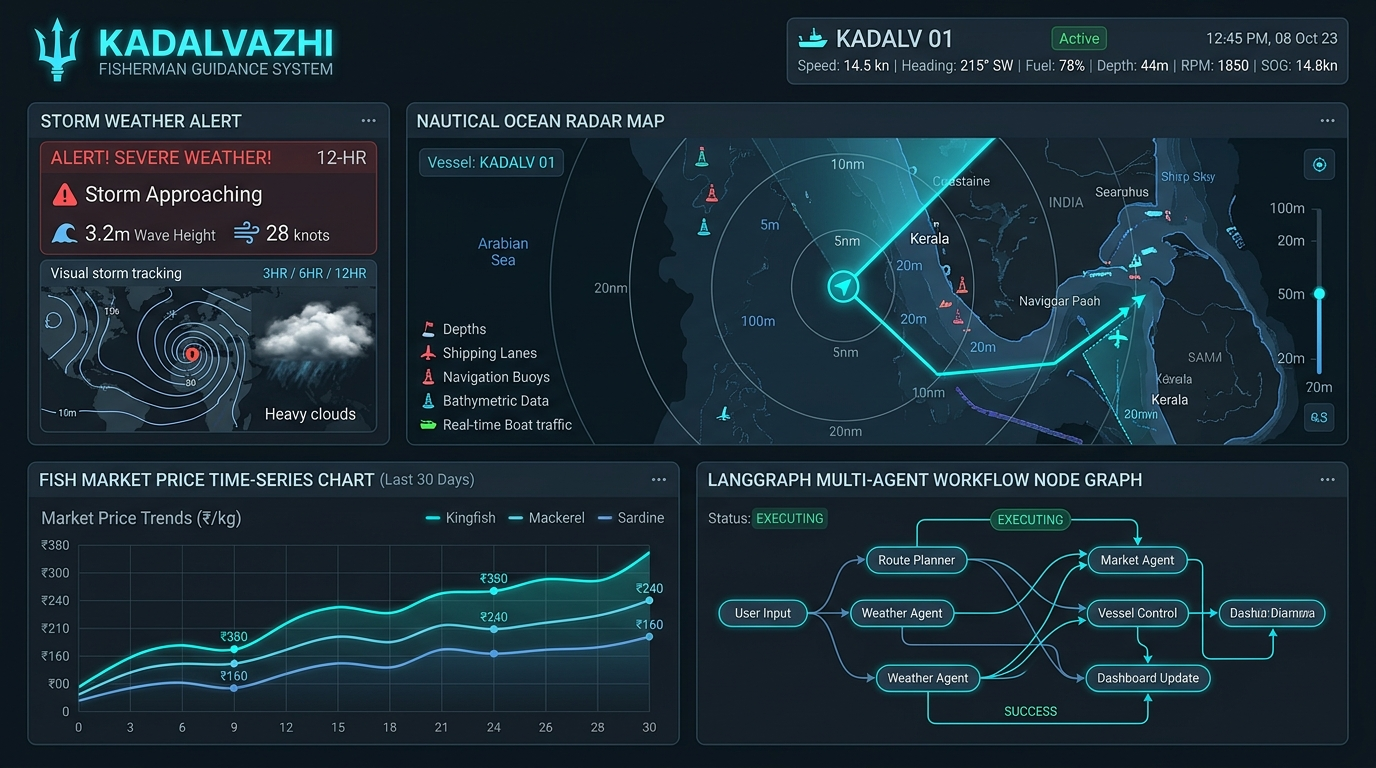
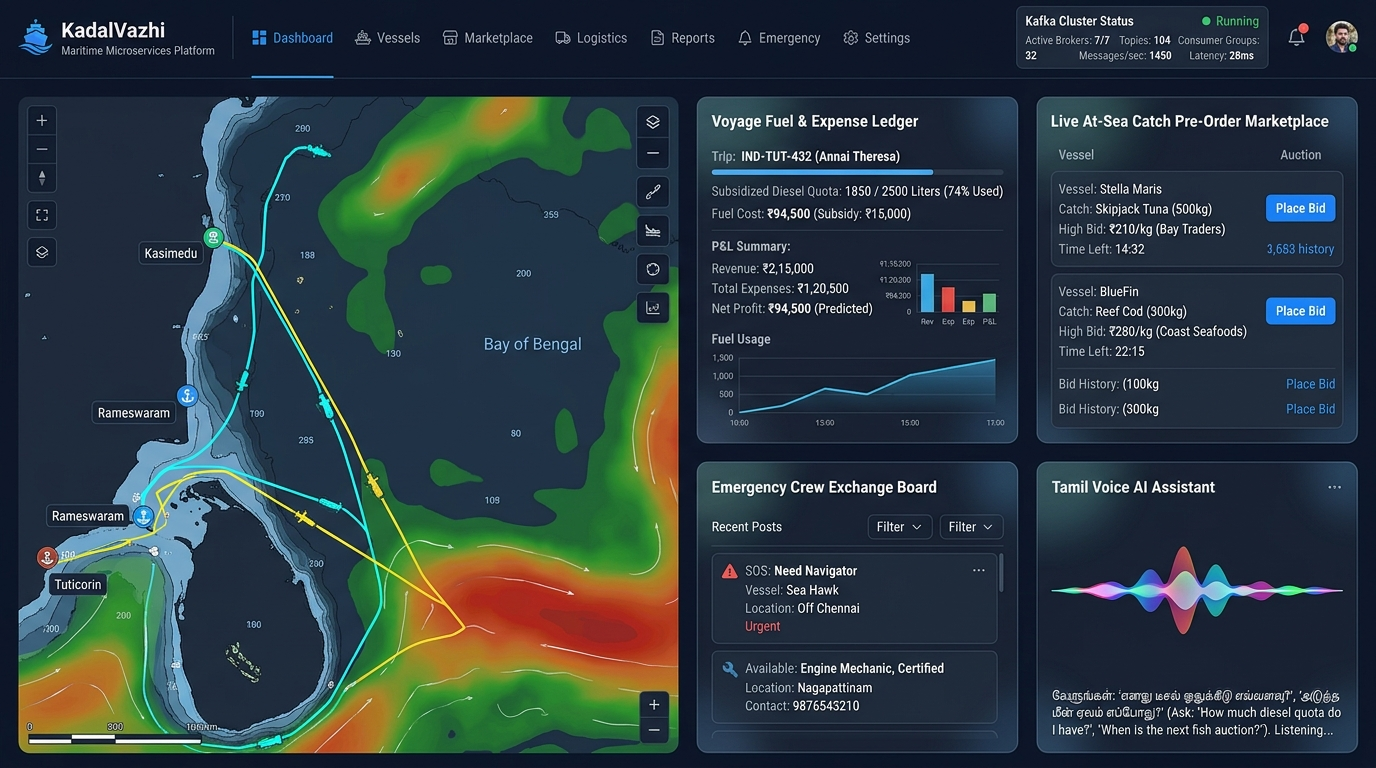
Update portfolio: natural bio separation, email click-to-copy privacy, KadalVazhi microservices architecture and thumbnail

diff --git a/index.html b/index.html
@@ -2541,10 +2541,8 @@
             </div>
 
             <p class="hero-bio">
-              Software Developer at <strong>Vaken Technology</strong>, working on the <strong>Sovablu</strong> platform.
-              Focused on production <strong>Java and Spring Boot APIs</strong>,
-              database caching with <strong>Redis and PostgreSQL</strong>, <strong>Agentic AI</strong> with AWS Bedrock,
-              and multi-agent architectures using <strong>Python and LangGraph</strong>.
+              Software Developer at <strong>Vaken Technology</strong>, engineering enterprise backend services and REST APIs for the <strong>Sovablu low-code platform</strong> using <strong>Java 21, Spring Boot, Redis, PostgreSQL</strong>, and <strong>AWS Bedrock</strong>.
+              Concurrently architecting <strong>KadalVazhi</strong> as an independent engineering initiative, an enterprise-grade real-time maritime microservices and AI guidance platform built with <strong>Java 25, Python, LangGraph</strong>, and <strong>Apache Kafka</strong>.
             </p>
 
             <div class="hero-actions">
@@ -2571,9 +2569,9 @@
               <div class="stat-sub">Java 21, Spring Boot, Redis, AWS Bedrock</div>
             </div>
             <div class="stat-card stat-purple">
-              <div class="stat-value">Multi-Agent</div>
+              <div class="stat-value">Microservices</div>
               <div class="stat-label">KadalVazhi Platform</div>
-              <div class="stat-sub">LangGraph, ChromaDB RAG, LangSmith</div>
+              <div class="stat-sub">Java 25, Kafka, LangGraph, Offline Sync</div>
             </div>
             <div class="stat-card">
               <div class="stat-value">707</div>
@@ -2598,16 +2596,23 @@
 
           <!-- Quick Contact Footer Bar -->
           <div class="quick-contact-bar" style="background: var(--bg-card); border: 1px solid var(--border-subtle); border-radius: var(--radius-md); padding: 18px 24px; display: flex; align-items: center; justify-content: space-between; flex-wrap: wrap; gap: 14px;">
-            <div style="display: flex; align-items: center; gap: 20px; flex-wrap: wrap; font-size: 0.88rem; color: var(--text-secondary);">
-              <span style="display: flex; align-items: center; gap: 6px;">
-                <i data-lucide="mail" style="width: 15px; height: 15px; color: var(--accent-blue);"></i> jamnithil@gmail.com
-              </span>
-              <span style="display: flex; align-items: center; gap: 6px;">
-                <i data-lucide="phone" style="width: 15px; height: 15px; color: var(--accent-green);"></i> +91 8220173595
-              </span>
-              <span style="display: flex; align-items: center; gap: 6px;">
+            <div style="display: flex; align-items: center; gap: 16px; flex-wrap: wrap; font-size: 0.88rem; color: var(--text-secondary);">
+              <button class="btn-action" id="copy-email-btn" onclick="copyEmailToClipboard(this)" title="Click to copy email address" style="background: rgba(56, 189, 248, 0.08); border: 1px solid rgba(56, 189, 248, 0.25); color: var(--text-primary); padding: 7px 14px; font-size: 0.86rem; border-radius: var(--radius-sm); display: inline-flex; align-items: center; gap: 8px; cursor: pointer; transition: all 0.2s ease;">
+                <i data-lucide="mail" style="width: 14px; height: 14px; color: var(--accent-blue);"></i>
+                <span id="copy-email-text">jamnithil@gmail.com</span>
+                <i data-lucide="copy" id="copy-email-icon" style="width: 13px; height: 13px; color: var(--text-muted);"></i>
+              </button>
+              <span style="display: inline-flex; align-items: center; gap: 6px; color: var(--text-secondary); font-size: 0.88rem;">
                 <i data-lucide="map-pin" style="width: 15px; height: 15px; color: var(--accent-purple);"></i> Tamil Nadu, India
               </span>
+            </div>
+            <div style="display: flex; align-items: center; gap: 10px;">
+              <a href="https://www.linkedin.com/in/jamesnithilv/" target="_blank" class="btn-action" style="padding: 7px 14px; font-size: 0.82rem;">
+                <i data-lucide="linkedin" style="width: 14px; height: 14px;"></i> LinkedIn
+              </a>
+              <a href="https://github.com/nithiljn" target="_blank" class="btn-action" style="padding: 7px 14px; font-size: 0.82rem;">
+                <i data-lucide="github" style="width: 14px; height: 14px;"></i> GitHub
+              </a>
             </div>
           </div>
 
@@ -2631,69 +2636,69 @@
           <!-- 🌟 FLAGSHIP PROJECT: KadalVazhi -->
           <div class="project-card-modern featured">
             <div class="project-thumb-wrap">
-              <img src="assets/images/project-kadalvazhi.jpg" alt="KadalVazhi AI Fisherman Guidance System Dashboard" class="project-thumb-img" loading="lazy">
+              <img src="assets/images/project-kadalvazhi.jpg" alt="KadalVazhi Maritime Microservices Platform Dashboard" class="project-thumb-img" loading="lazy">
             </div>
             <span class="featured-badge">Flagship 2026</span>
 
             <div class="project-header">
               <h2 class="project-name">
-                <span>KadalVazhi: AI Fisherman Guidance System</span>
+                <span>KadalVazhi (கடல் வழி): Maritime Microservices & AI Platform</span>
               </h2>
-              <p class="project-tagline">Real-time multi-agent guidance platform for weather, pricing, fuel, and voyage safety</p>
+              <p class="project-tagline">Enterprise polyglot microservices platform for deep-sea fleet voyages, emergency crew exchange, and direct dockside catch pre-orders</p>
             </div>
 
             <p class="project-description">
-              A real-time AI guidance system for fishermen that handles weather risk analysis,
-              fish market price forecasts, fuel cost estimates, and voyage profitability using an autonomous
-              <strong>LangGraph multi-agent architecture</strong>.
+              An enterprise-grade, polyglot microservices ecosystem tailored for deep-sea fishing communities and fleet owners.
+              Features an offline-first voyage engine, Apache Kafka event streaming, zero-middlemen dockside catch pre-booking,
+              emergency crew replacement, and a Tamil/Malayalam voice AI advisory engine.
             </p>
 
             <ul class="project-bullets">
               <li>
-                <strong>Multi-Agent Architecture:</strong> Developed specialized <em>Weather</em>, <em>Financial</em>,
-                <em>Guide</em>, and <em>LLM-as-Judge</em> agents, tracking evaluation metrics with <strong>LangSmith</strong>.
+                <strong>Polyglot Microservices & Event Streaming:</strong> Core transactional services engineered in <strong>Java 25 and Spring Boot</strong> (<code>nn-home-service</code>, <code>fleet-service</code>, <code>crew-exchange-service</code>, <code>marketplace-service</code>) routed via <strong>Spring Cloud Gateway</strong>, using <strong>Apache Kafka</strong> for asynchronous event-driven workflows (trip events, catch declarations, emergency alerts).
               </li>
               <li>
-                <strong>RAG Pipeline with ChromaDB:</strong> Built vector store retrieval using cosine similarity search on official fishery documents for context-aware responses.
+                <strong>Offline-First Zero-Connectivity Sync:</strong> Solved 5-to-10 nautical mile offshore dead zones with local SQLite storage on mobile clients, executing <strong>idempotent background synchronization</strong> to <strong>PostgreSQL</strong> once vessels regain coastal 4G connectivity.
               </li>
               <li>
-                <strong>Predictive Vision and Forecasting:</strong> Trained an <strong>LSTM time-series forecasting model</strong> and connected <strong>PaddleOCR with a Vision-Language Model (VLM)</strong> for fish image data extraction and valuation.
+                <strong>Direct-From-Sea Pre-Order Marketplace:</strong> Built a dockside catch pre-order system enabling captains to declare catches while at sea, linking vessel arrival ETAs at major fish landing centers (Kasimedu, Tuticorin, Rameswaram, Munambam) directly to buyers and eliminating exploitative middlemen.
               </li>
               <li>
-                <strong>Safe Fallback Loop:</strong> Integrated OpenWeather API with a 3-attempt fallback loop across multiple weather services. If all requests fail, the system explicitly warns fishermen instead of serving unverified data to protect lives at sea.
+                <strong>Voyage Ledger & Subsidized Fuel Quota:</strong> Engine supporting all vessel classes (from 1-day country crafts and FRP fiber boats to 15-day mechanized trawlers), tracking government diesel/kerosene quota balances, ice supplies, crew rosters, and trip P&L.
               </li>
               <li>
-                <strong>Performance and Reliability:</strong> Applied the <strong>Singleton pattern</strong> and <strong>LRU caching</strong>, logging daily fishing profit and loss into <strong>PostgreSQL</strong> for historical AI guidance models.
+                <strong>Emergency Crew Exchange & AI Voice Advisory:</strong> Real-time dispatch board for urgent port crew hiring, paired with a <strong>Python FastAPI AI Voice Engine</strong> using <strong>Whisper STT (Tamil/Malayalam)</strong> and LLM reasoning for marine safety alerts and annual fishing ban compliance.
+              </li>
+              <li>
+                <strong>AWS Cloud & Automated Jenkins CI/CD:</strong> Containerized microservices orchestrated on <strong>AWS EKS Kubernetes</strong> with Application Load Balancers, Multi-AZ RDS PostgreSQL (JSONB), and automated canary deployments via <strong>Jenkins pipelines</strong>.
               </li>
             </ul>
 
-            <!-- Python pseudo-code snippet for KadalVazhi -->
+            <!-- Java / Kafka event snippet for KadalVazhi -->
             <div class="code-preview-block">
-              <span class="syntax-com"># kadalvazhi_core.py: LangGraph multi-agent setup</span><br>
-              <span class="syntax-kw">from</span> langgraph.graph <span class="syntax-kw">import</span> StateGraph, END<br>
-              <span class="syntax-kw">from</span> chromadb <span class="syntax-kw">import</span> PersistentClient<br>
-              <br>
-              <span class="syntax-kw">class</span> <span class="syntax-cls">KadalVazhiAgentGraph</span>:<br>
-              &nbsp;&nbsp;&nbsp;&nbsp;<span class="syntax-kw">def</span> <span class="syntax-fn">__init__</span>(self, vector_store: PersistentClient):<br>
-              &nbsp;&nbsp;&nbsp;&nbsp;&nbsp;&nbsp;&nbsp;&nbsp;self.rag_engine = vector_store.get_collection(<span class="syntax-str">"fishery_docs"</span>)<br>
-              &nbsp;&nbsp;&nbsp;&nbsp;&nbsp;&nbsp;&nbsp;&nbsp;self.workflow = StateGraph(FishermanState)<br>
-              &nbsp;&nbsp;&nbsp;&nbsp;&nbsp;&nbsp;&nbsp;&nbsp;<span class="syntax-com"># Define specialized agent nodes</span><br>
-              &nbsp;&nbsp;&nbsp;&nbsp;&nbsp;&nbsp;&nbsp;&nbsp;self.workflow.add_node(<span class="syntax-str">"weather_safety_agent"</span>, self.eval_weather_risk)<br>
-              &nbsp;&nbsp;&nbsp;&nbsp;&nbsp;&nbsp;&nbsp;&nbsp;self.workflow.add_node(<span class="syntax-str">"market_pricing_agent"</span>, self.forecast_pnl_lstm)<br>
-              &nbsp;&nbsp;&nbsp;&nbsp;&nbsp;&nbsp;&nbsp;&nbsp;self.workflow.add_node(<span class="syntax-str">"llm_as_judge"</span>, self.validate_safety_verdict)<br>
-              &nbsp;&nbsp;&nbsp;&nbsp;&nbsp;&nbsp;&nbsp;&nbsp;self.workflow.add_conditional_edges(<span class="syntax-str">"weather_safety_agent"</span>, self.check_storm_threshold)<br>
+              <span class="syntax-com">// CatchEventConsumer.java: Kafka-driven Offshore Catch & Marketplace Processing</span><br>
+              <span class="syntax-kw">@Component</span><br>
+              <span class="syntax-kw">public class</span> <span class="syntax-cls">CatchEventConsumer</span> {<br>
+              &nbsp;&nbsp;&nbsp;&nbsp;<span class="syntax-kw">@KafkaListener</span>(topics = <span class="syntax-str">"catch-reported-events"</span>, groupId = <span class="syntax-str">"marketplace-v1"</span>)<br>
+              &nbsp;&nbsp;&nbsp;&nbsp;<span class="syntax-kw">public void</span> <span class="syntax-fn">processOffshoreCatch</span>(CatchDeclaredEvent event) {<br>
+              &nbsp;&nbsp;&nbsp;&nbsp;&nbsp;&nbsp;&nbsp;&nbsp;<span class="syntax-com">// Idempotent catch registration synced from offline marine client</span><br>
+              &nbsp;&nbsp;&nbsp;&nbsp;&nbsp;&nbsp;&nbsp;&nbsp;marketplaceService.registerDocksidePreOrder(event.getVesselId(), event.getSpecies(), event.getEtaHarbor());<br>
+              &nbsp;&nbsp;&nbsp;&nbsp;&nbsp;&nbsp;&nbsp;&nbsp;redisLeaderboard.updatePortVolume(event.getPortId(), event.getWeightKg());<br>
+              &nbsp;&nbsp;&nbsp;&nbsp;}<br>
+              }
             </div>
 
             <div class="tech-pill-list">
-              <span class="tech-pill highlight">LangGraph</span>
-              <span class="tech-pill highlight">ChromaDB (RAG)</span>
-              <span class="tech-pill highlight">LangSmith</span>
-              <span class="tech-pill">PaddleOCR + VLM</span>
-              <span class="tech-pill">LSTM Time-Series</span>
-              <span class="tech-pill">OpenWeather API</span>
-              <span class="tech-pill">PostgreSQL</span>
-              <span class="tech-pill">Redis LRU Cache</span>
-              <span class="tech-pill">Python 3.11</span>
+              <span class="tech-pill highlight">Java 25 & Spring Boot</span>
+              <span class="tech-pill highlight">Apache Kafka</span>
+              <span class="tech-pill highlight">Spring Cloud Gateway</span>
+              <span class="tech-pill">Offline SQLite Sync</span>
+              <span class="tech-pill">Python FastAPI</span>
+              <span class="tech-pill">Whisper Voice AI (Tamil/Malayalam)</span>
+              <span class="tech-pill">PostgreSQL (JSONB)</span>
+              <span class="tech-pill">Redis Cluster</span>
+              <span class="tech-pill">AWS EKS & Docker</span>
+              <span class="tech-pill">Jenkins CI/CD</span>
             </div>
 
             <div class="project-links">
@@ -3430,13 +3435,13 @@
           <i data-lucide="award" style="width: 12px; height: 12px; color: #f59e0b;"></i>
           <span>Knight 1,994 (Rank #197)</span>
         </div>
-        <div class="badge-detail-row">
+        <div class="badge-detail-row" style="cursor: pointer;" onclick="copyEmailToClipboard(this)" title="Click to copy email">
           <i data-lucide="mail" style="width: 12px; height: 12px; color: var(--accent-blue);"></i>
           <span>jamnithil@gmail.com</span>
         </div>
         <div class="badge-detail-row">
-          <i data-lucide="phone" style="width: 12px; height: 12px; color: var(--accent-green);"></i>
-          <span>+91 8220173595</span>
+          <i data-lucide="map-pin" style="width: 12px; height: 12px; color: var(--accent-green);"></i>
+          <span>Tamil Nadu, India</span>
         </div>
         <div class="badge-detail-row">
           <i data-lucide="code" style="width: 12px; height: 12px; color: var(--accent-purple);"></i>
@@ -3852,18 +3857,18 @@ Competitive Programmer: LeetCode Knight (Contest Rating 1,994, Rank #197 / 43,02
 $ current_focus.json
 {
   "role": "Junior Software Developer at Vaken Technology",
-  "product": "Sovablu (Production REST APIs, Redis Caching, AWS Bedrock, Jenkins)",
-  "flagship_project": "KadalVazhi: AI Fisherman Guidance System (LangGraph, ChromaDB, RAG)",
+  "product": "Sovablu Low-Code Platform (Java 21, Spring Boot REST APIs, Redis, AWS Bedrock)",
+  "personal_flagship": "KadalVazhi: Real-Time Maritime Microservices & AI (Java 25, Kafka, Whisper)",
   "competitive_ranking": "LeetCode Knight, 707 Problems Solved (446 Java, 443 Python3)",
   "education": "B.Tech in Artificial Intelligence and Data Science (KIOT, CGPA 8.1)",
-  "focus": "Building reliable distributed backends and practical AI systems."
+  "focus": "Engineering distributed backend services and real-world AI systems."
 }
 
 $ tech_highlights
 • Built and maintained production REST APIs in Java and Spring Boot with rate limiting and Singleton design pattern.
 • Integrated Redis caching to reduce database query latency across hot paths with PostgreSQL.
 • Automated CI/CD deployment pipelines using Jenkins with AWS services (EC2, S3, Lambda, CodeCommit).
-• Architected multi-agent workflows using LangGraph for maritime safety, pricing, and weather guidance.
+• Architected KadalVazhi microservices with Java 25, Kafka event streaming, and offline SQLite sync.
 
 [Open for high-impact software engineering roles and collaboration]
 `;
@@ -3976,15 +3981,17 @@ $ tech_highlights
     const cliInput = document.getElementById('cli-input-field');
 
     const kadalvazhiCliResponse = `
-KadalVazhi: AI Fisherman Guidance System (2026)
+KadalVazhi (கடல் வழி): Maritime Microservices & AI Platform (2026)
 • Status: Under Active Development
 • Organization: https://github.com/orgs/kadal-vazhi/repositories
-• Architecture: LangGraph Multi-Agent (Weather, Financial, Guide, LLM-as-Judge)
-• RAG Pipeline: ChromaDB vector store with cosine similarity on official fishery documents
-• Safety First: OpenWeather API 3-attempt fallback loop with explicit safety warnings
-• Computer Vision: PaddleOCR and Vision-Language Model (VLM) for fish image extraction
-• Time Series: LSTM forecasting model for market pricing and catch valuation
-• Systems: Singleton pattern, Redis LRU caching, and daily P&L logged in PostgreSQL
+• Architecture: Polyglot Microservices (Java 25 Spring Boot + Python FastAPI)
+• Event Backbone: Apache Kafka (Trip lifecycle, catch pre-orders, crew alerts)
+• Deep-Sea Offline Sync: SQLite local client syncs to PostgreSQL when entering 4G
+• Direct Catch Pre-Orders: Live dockside pre-booking eliminating middlemen
+• Voyage & Fuel Ledger: All-vessel tracking (Country craft to 15-day trawler) with subsidy balances
+• Emergency Crew Exchange: Real-time harbour crew shortage board
+• Voice AI: Tamil & Malayalam Whisper STT + LLM marine safety advisory
+• Cloud & DevOps: AWS EKS, RDS PostgreSQL (JSONB), Redis Cluster, Jenkins CI/CD
 `;
 
     const cliResponses = {
@@ -4056,12 +4063,11 @@ LeetCode Knight Badge:
 `,
       'contact': `
 Contact Information:
-• Email: jamnithil@gmail.com
-• Phone: +91 8220173595
+• Email: jamnithil@gmail.com (click to copy on page)
+• Location: Tamil Nadu, India
 • LinkedIn: https://www.linkedin.com/in/jamesnithilv/
 • GitHub: https://github.com/nithiljn
 • LeetCode: https://leetcode.com/u/NITHIL07/
-• Location: Trichy, Tamil Nadu, India
 `,
       'resume': `
 📄 Triggering download for 'James_Nithil_Resume.pdf'...
@@ -4121,6 +4127,49 @@ Contact Information:
     function runCliBtn(cmd) {
       cliInput.value = '';
       executeCommand(cmd);
+    }
+
+    function copyEmailToClipboard(btn) {
+      const email = 'jamnithil@gmail.com';
+      const textEl = document.getElementById('copy-email-text');
+      const onSuccess = () => {
+        if (textEl) textEl.textContent = 'Email copied!';
+        if (btn) {
+          btn.style.borderColor = 'rgba(16, 185, 129, 0.6)';
+          btn.style.background = 'rgba(16, 185, 129, 0.15)';
+        }
+        setTimeout(() => {
+          if (textEl) textEl.textContent = email;
+          if (btn) {
+            btn.style.borderColor = 'rgba(56, 189, 248, 0.25)';
+            btn.style.background = 'rgba(56, 189, 248, 0.08)';
+          }
+        }, 2200);
+      };
+
+      if (navigator.clipboard && navigator.clipboard.writeText) {
+        navigator.clipboard.writeText(email).then(onSuccess).catch(() => {
+          fallbackCopyText(email, onSuccess);
+        });
+      } else {
+        fallbackCopyText(email, onSuccess);
+      }
+    }
+
+    function fallbackCopyText(text, callback) {
+      const input = document.createElement('input');
+      input.value = text;
+      input.style.position = 'fixed';
+      input.style.opacity = '0';
+      document.body.appendChild(input);
+      input.select();
+      try {
+        document.execCommand('copy');
+        if (callback) callback();
+      } catch (err) {
+        prompt('Copy email address:', text);
+      }
+      document.body.removeChild(input);
     }
   </script>
 

diff --git a/README.md b/README.md
@@ -10,7 +10,7 @@
 
 ## 👨💻 About Me
 
-Software Developer at **Vaken Technology**, working on the **Sovablu** platform. Focused on building high-availability production REST APIs in **Java and Spring Boot**, architecting **distributed systems with Redis and PostgreSQL**, managing cloud infrastructure on **AWS**, and designing **Agentic AI systems** using **AWS Bedrock** and **LangGraph**.
+Software Developer at **Vaken Technology**, engineering enterprise backend services and REST APIs for the **Sovablu low-code platform** using **Java 21, Spring Boot, Redis, PostgreSQL**, and **AWS Bedrock**. Concurrently architecting **KadalVazhi** as an independent engineering initiative, an enterprise-grade real-time maritime microservices and AI platform built with **Java 25, Apache Kafka, Python FastAPI**, and **LangGraph**.
 
 ---
 
@@ -51,14 +51,14 @@ Software Developer at **Vaken Technology**, working on the **Sovablu** platform.
 
 ## 🚀 Featured Projects
 
-### 🌊 **KadalVazhi: AI Fisherman Guidance System (2026)**
+### 🌊 **KadalVazhi (கடல் வழி): Maritime Microservices & AI Platform (2026)**
 *Repository: [github.com/orgs/kadal-vazhi/repositories](https://github.com/orgs/kadal-vazhi/repositories) (Under Active Development)*
-- Built a real-time AI platform for fishermen covering weather risk analysis, fish market pricing, fuel cost estimation, and voyage profitability using a **LangGraph multi-agent architecture**.
-- Designed a **RAG pipeline with ChromaDB vector store** using cosine similarity search on fishery documents for context-aware LLM responses.
-- Developed specialized **Weather, Financial, Guide, and LLM-as-Judge agents**, tracking agent evaluation via **LangSmith**.
-- Built an **LSTM time-series forecasting model** and integrated **PaddleOCR with a Vision-Language Model (VLM)** for fish image data extraction.
-- Integrated **OpenWeather API** with a 3-attempt fallback loop across multiple weather services, alerting fishermen explicitly if all requests fail to protect safety at sea.
-- Applied the **Singleton pattern** and **LRU caching**, logging daily fishing profit and loss into **PostgreSQL** for historical AI guidance.
+- **Polyglot Microservices**: Core transactional services engineered in **Java 25 and Spring Boot** (`nn-home-service`, `fleet-service`, `crew-exchange-service`, `marketplace-service`) routed via **Spring Cloud Gateway**, using **Apache Kafka** event streaming for asynchronous workflows.
+- **Offline-First Deep-Sea Sync**: Solved 5-to-10 nautical mile offshore dead zones using local SQLite / Room storage with idempotent background sync to PostgreSQL once vessels reach coastal 4G networks.
+- **Direct-From-Sea Pre-Order Marketplace**: Enables dockside catch declarations at sea, linking vessel arrival ETAs at major fish landing centers (Kasimedu, Tuticorin, Rameswaram) directly to buyers and eliminating exploitative middlemen.
+- **Voyage Ledger & Subsidized Fuel Quota**: Full voyage lifecycle engine for all vessel classes (country craft to 15-day trawlers), tracking diesel/kerosene subsidies, ice supplies, crew rosters, and trip P&L.
+- **Emergency Crew Exchange & AI Voice Advisory**: Rapid crew replacement board paired with a **Python FastAPI AI Voice Engine** using Whisper STT (Tamil/Malayalam) and LLM marine safety reasoning.
+- **DevOps & Cloud**: Containerized on **AWS EKS Kubernetes** with Application Load Balancers, Multi-AZ RDS PostgreSQL (JSONB), and automated canary deployments via **Jenkins CI/CD**.
 
 ### 🎙 **AI InterviewBot: Dynamic Voice Interviewer**
 - Autonomous voice-based interview assistant conducting live conversational interviews.
@@ -102,7 +102,7 @@ Software Developer at **Vaken Technology**, working on the **Sovablu** platform.
 ## 📬 Contact & Connect
 
 - **Email**: [jamnithil@gmail.com](mailto:jamnithil@gmail.com)
-- **Phone**: +91 8220173595
-- **LinkedIn**: [linkedin.com/in/jamesnithil-v](https://www.linkedin.com/in/jamesnithil-v)
+- **Location**: Tamil Nadu, India
+- **LinkedIn**: [linkedin.com/in/jamesnithilv](https://www.linkedin.com/in/jamesnithilv/)
 - **GitHub**: [github.com/nithiljn](https://github.com/nithiljn)
 - **LeetCode**: [leetcode.com/u/NITHIL07](https://leetcode.com/u/NITHIL07/)
